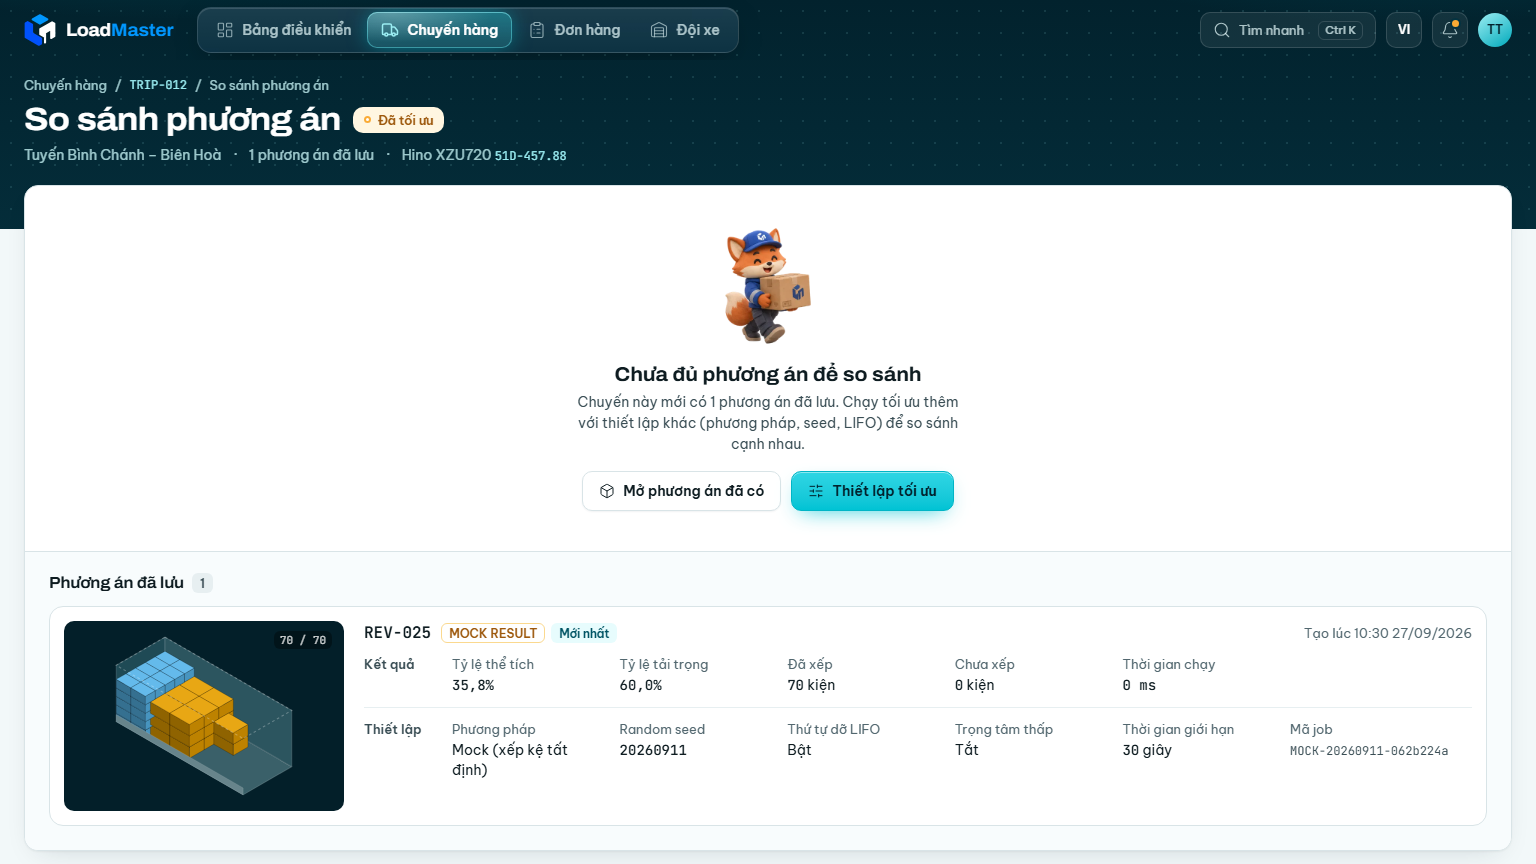
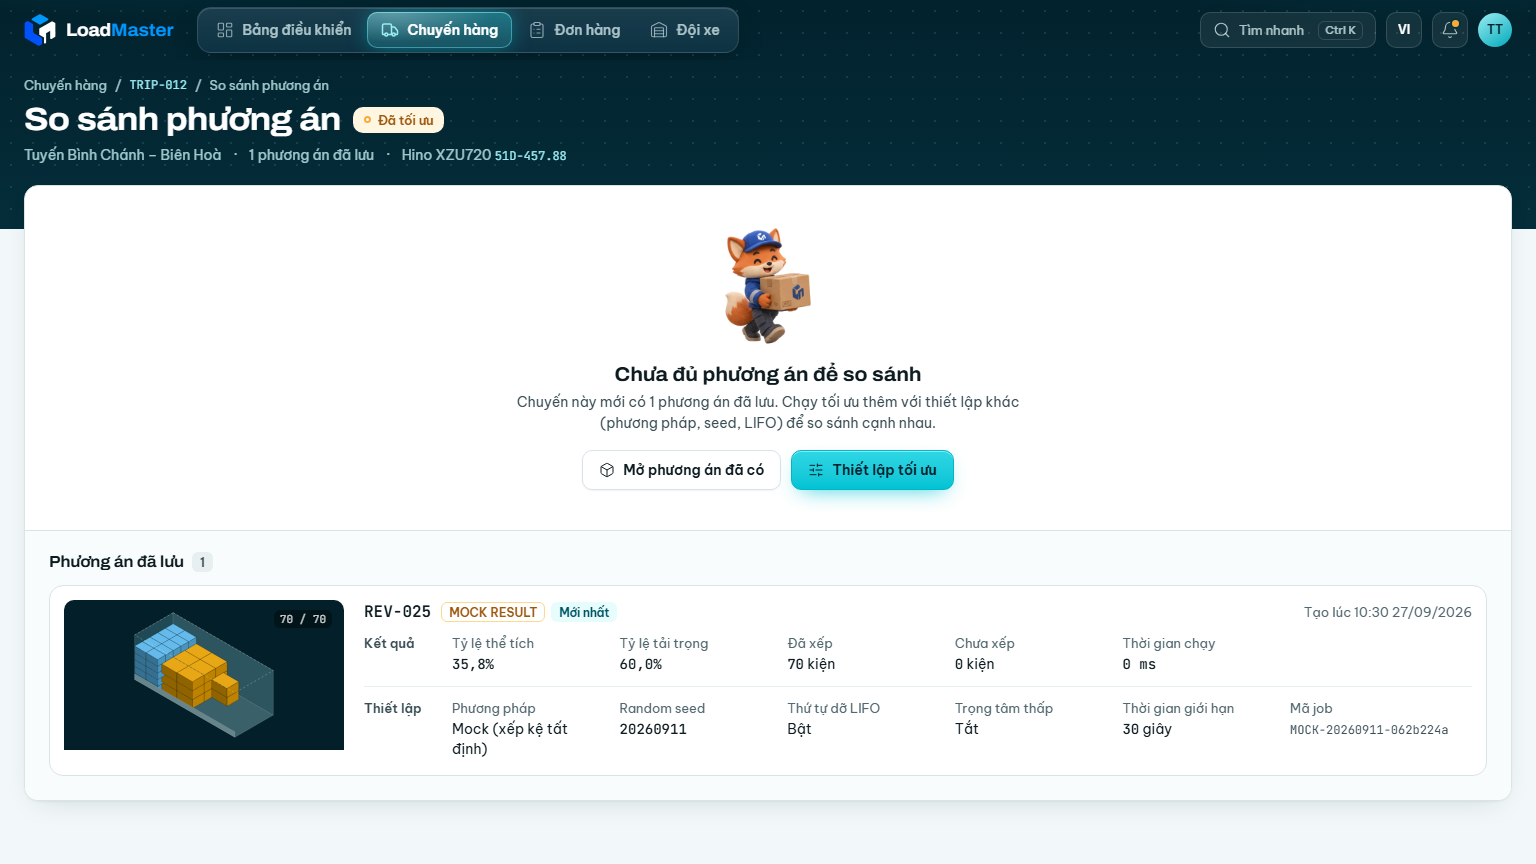
feat(ui): EmptyState có mô tả rộng, ảnh phương án nhận chiều cao; tài liệu đợt 4 (LM-106)

diff --git a/src/features/trips/PlanCompareEmpty.tsx b/src/features/trips/PlanCompareEmpty.tsx
@@ -25,6 +25,7 @@ export function PlanCompareEmpty({ tripId, cards, canRun }: { tripId: string; ca
       <Card className="flex flex-none flex-col overflow-hidden">
         <EmptyState
           mascot="empty"
+          wide
           className="py-10"
           title={t('trips.compare.emptyTitle')}
           description={t('trips.compare.emptyDescription', { count: cards.length })}
@@ -75,7 +76,7 @@ function SavedRevision({ card }: { card: RevisionCardModel }) {
     <article aria-label={card.id} className="flex gap-5 rounded-lg border border-border bg-bg p-3.5 max-lg:flex-col">
       <div className="w-70 flex-none overflow-hidden rounded-md max-lg:w-full">
         <PlanThumbnail revisionId={card.id} request={card.revision.request} placements={card.revision.result.placements}
-          totalCount={card.placedCount + card.unplacedCount} />
+          totalCount={card.placedCount + card.unplacedCount} className="h-[150px]" />
       </div>
       <div className="flex min-w-0 flex-1 flex-col gap-3 py-0.5">
         <div className="flex flex-wrap items-center gap-2.5">

diff --git a/src/components/EmptyState.tsx b/src/components/EmptyState.tsx
@@ -22,6 +22,7 @@ export function EmptyState({
   illustration,
   mascot,
   compact = false,
+  wide = false,
   icon: Icon,
   tone = 'info',
   title,
@@ -32,6 +33,8 @@ export function EmptyState({
   illustration?: ReactNode
   mascot?: LumoPose
   compact?: boolean
+  /** Mô tả rộng tới 520 px thay vì 400 px — câu dài trong card rộng (LM-106, So sánh phương án). */
+  wide?: boolean
   icon?: LucideIcon
   tone?: keyof typeof ART
   title: string
@@ -58,7 +61,7 @@ export function EmptyState({
       <div className="flex flex-col gap-1.5">
         <span className="font-display text-h2 leading-6 font-bold text-ink-strong font-stretch-106%">{title}</span>
         {description ? (
-          <span className="max-w-100 text-body leading-5.25 text-pretty text-ink-2">{description}</span>
+          <span className={cn('text-body leading-5.25 text-pretty text-ink-2', wide ? 'max-w-130' : 'max-w-100')}>{description}</span>
         ) : null}
       </div>
       {action}

diff --git a/src/features/trips/PlanThumbnail.tsx b/src/features/trips/PlanThumbnail.tsx
@@ -10,6 +10,7 @@ import {
   shellColors,
   sortByDepth,
 } from '@/lib/isometric'
+import { cn } from '@/lib/utils'
 import { revisionThumbnail } from './revision-thumbnail'
 
 const SCALE = 21
@@ -24,11 +25,14 @@ export function PlanThumbnail({
   request,
   placements,
   totalCount,
+  className,
 }: {
   revisionId: string
   request: Pick<OptimizationRequest, 'vehicle' | 'packages'>
   placements: readonly PackagePlacement[]
   totalCount: number
+  /** Chiều cao khung (mặc định 190 px). V2.3: 176 px trong ma trận so sánh, 150 px ở thẻ bản lưu (LM-106). */
+  className?: string
 }) {
   const t = useT()
   const format = useFormat()
@@ -48,7 +52,7 @@ export function PlanThumbnail({
   }, [request, placements])
 
   return (
-    <div className="relative h-[190px] flex-none bg-canvas-1">
+    <div className={cn('relative h-[190px] flex-none bg-canvas-1', className)}>
       <svg
         viewBox={frame.viewBox}
         preserveAspectRatio="xMidYMid meet"

diff --git a/src/features/trips/ComparisonMatrix.tsx b/src/features/trips/ComparisonMatrix.tsx
@@ -82,7 +82,7 @@ export function ComparisonMatrix({ cards, best, selectedId, onSelect, footer }: 
                   <td key={card.id} className={cn('py-3.5 pr-4 pl-11', cellTone(card))}>
                     <div className={cn('overflow-hidden rounded-md', card.id === selectedId && 'ring-2 ring-cyan-500')}>
                       <PlanThumbnail revisionId={card.id} request={card.revision.request} placements={card.revision.result.placements}
-                        totalCount={card.placedCount + card.unplacedCount} />
+                        totalCount={card.placedCount + card.unplacedCount} className="h-44" />
                     </div>
                   </td>
                 ))}

diff --git a/docs/issues/LM-106-v23-toi-uu.md b/docs/issues/LM-106-v23-toi-uu.md
@@ -19,6 +19,59 @@ Màn của đợt: `ThietLapToiUu` (1536×1265), `ThietLapToiUuLoi` (1536×1339)
 Bản mẫu vẽ trước LM-104: phần LM-104 thêm vào Thiết lập tối ưu (mục tiêu, thuật toán, bảng "Lần chạy tối ưu", banner quyết định của quản lý)
 **giữ nguyên chức năng**, chỉ đưa về giao diện V2.3.
 
-## Danh sách lệch
+## Danh sách lệch (chụp trước khi sửa)
 
-## Kết quả
+Ảnh trước: `docs/screenshots/v2.3/dot4-toi-uu/before-*.png`.
+
+**Thiết lập tối ưu (`ThietLapToiUu`)**
+- Nút quay lại + mã chuyến + câu mô tả → đường dẫn "Chuyến hàng / mã / Thiết lập tối ưu", chip trạng thái (+ dòng phụ), dòng dữ liệu
+  tên · ngày chạy · xe · tài xế; banner khoá và banner quyết định của quản lý nằm trong dải trời.
+- Cột phải 340 → 416 px; mục viền mảnh → mục đánh số V2.3 (ô số 28 px, tiêu đề Archivo).
+- Ba số đầu vào mono → Archivo 28 px chia vạch; ô điểm giao thêm tuyến "đầu → cuối".
+- Dòng mono thông số xe → ô thông số nền cyan-50 (lòng thùng, tải tối đa, cửa, vật cản) + chip trạng thái xe; hai liên kết sửa có icon.
+- "Thiết lập nâng cao": tam giác mặc định → ô mũi tên, tiêu đề Archivo; mục tiêu / thuật toán (LM-104) thành danh sách chọn có viền.
+- Kiểm tra trước khi tối ưu: danh sách issue trần → dải kết luận + danh sách kiểm theo nhóm Xe / Kiện / Tải trọng.
+- "Sau khi chạy": một câu → ba bước đánh số.
+
+**Thiết lập tối ưu có lỗi (`ThietLapToiUuLoi`)**
+- Nút Tối ưu tắt không nói lý do → câu "Chưa chạy được: N lỗi cần sửa ở …" trên nút, nối `aria-describedby`.
+- Vượt tải: thanh hổ phách → đỏ, "· vượt N kg"; mục lỗi có nhãn Lỗi / Cảnh báo, nút "Đổi xe", "Sửa kiện".
+
+**Đang tối ưu (`DangToiUu`)**
+- Hộp thoại 640 px không icon, "0 / 0" khi service chưa báo → 500 px, ô icon xoay xanh lam, tổng kiện lấy từ chuyến, thanh xanh lam,
+  dòng thời gian đã chạy / giới hạn, khung thiết lập của lần chạy, "Huỷ thì không tạo phương án mới".
+
+**Lỗi và thông báo (`HopThoaiToiUu`)**
+- Thiếu lề dưới, không nút đóng góc → `DialogHeader` có ô icon, nút × góc, rộng 456 px; lỗi đầu vào mỗi dòng có icon và mức.
+
+**So sánh phương án (`SoSanhPhuongAn`)**
+- Nút quay lại + mã → đường dẫn, chip trạng thái chuyến, dòng tuyến · số phương án · xe.
+- Khối viền phẳng → Card; chú giải "Tốt nhất"; radio gốc → radio V2.3; nhãn trạng thái thành tag (lỗi thời hổ phách thay đỏ).
+- Cột đang chọn: chỉ tô đầu cột → tô cả cột + vạch 3 px + ảnh viền cyan; cả ô mono → chỉ phần số mono.
+- Tốt nhất: nền cyan + tích cyan → chữ 600 + tích xanh lá (không trùng nền cột đang chọn).
+- Thanh chân 64 px ngoài vùng cuộn → chân trong Card, dính đáy vùng cuộn.
+
+**So sánh — chưa đủ phương án (`SoSanhPhuongAnTrong`)**
+- Trạng thái rỗng trần trên nền trang → trong Card đè dải trời; thêm mục "Phương án đã lưu (1)" với ảnh, số liệu và thiết lập của bản
+  duy nhất (đọc từ revision).
+
+## Kết quả (27/09/2026)
+
+Hai phần làm song song trong worktree riêng (Thiết lập tối ưu + hộp thoại; So sánh phương án), không chung file; người điều phối gộp,
+thêm hai tuỳ chọn dùng chung và kiểm trên nhánh gộp. Ảnh sau + ghép với ảnh đích: `after-*.png`, `so-sanh/`.
+
+- Dùng chung: `EmptyState wide` (mô tả tới 520 px), `PlanThumbnail className` (176 px trong ma trận, 150 px ở thẻ bản lưu).
+- Kiểm tra: tsc, lint, build sạch; 973/973 unit/DOM (thêm `setup-checklist`, hộp thoại lỗi, thẻ bản lưu); 94/94 E2E.
+
+**Lệch có chủ ý**
+- Không tím: "đang tối ưu" dùng xanh lam; không có chip "Đang tối ưu" (từ LM-104 là tiến trình job, không phải trạng thái).
+- Danh sách "Phương pháp" năm dòng của bản mẫu → hai danh sách Mục tiêu / Thuật toán của LM-104; "Thiết lập nâng cao" vẫn gập mặc định.
+- Nút Tối ưu canh hàng tiêu đề thay vì đáy dải trời: thấp như bản mẫu thì con trỏ sau khi bấm đè toast (offset 152), toast không tự tắt.
+- Ảnh phương án giữ SVG đẳng cự (AGENTS §7); số giữ JetBrains Mono; độ đậm tốt nhất 600 (Be Vietnam Pro chỉ 400/500/600).
+- Seed chỉ có REV-001, REV-002 (bản mẫu có REV-028): hai cột, không ô nào "tốt nhất" vì mọi chỉ số bằng nhau.
+- Chip xe "Sẵn sàng" xanh lá theo `VehicleStatusBadge`; trạng thái rỗng giữ Lumo `empty`.
+
+**Còn lại cho thành phần dùng chung**
+- `PageHero` chưa có tuỳ chọn canh hành động theo hàng tiêu đề (màn này tự đặt lề); dải trời cao hơn bản mẫu khoảng 15 px.
+- `DialogHeader` và `ProgressBar` chưa có tông `azure` (hộp thoại đang chạy tự dựng đầu); nút × góc hộp thoại có hai bản cục bộ.
+- Mục đánh số (`TripFormSection` của trips) nên đưa lên `components/` thay `FormSection` V2.

diff --git a/AGENTS.md b/AGENTS.md
@@ -422,7 +422,8 @@ Mẫu: `design/v2.3/screens/web/ThanhPhan.jpg`, `TrangThaiChung.jpg`, `MenuToanC
 - **Hộp thoại**: bo 18, lớp phủ `--scrim`; `DialogHeader` có ô icon 40 px theo nghĩa; chân nền `--n-25`, nút dồn phải.
 - **Toast**: bo 14, ô icon 30 px tô theo nghĩa; đặt dưới nút hành động của dải trời (`offset` 152).
 - **Banner** (`components/Banner.tsx`): info / warning / danger / neutral, hành động dồn phải. `TripLockBanner` dựng trên nó.
-- **Trạng thái rỗng**: không khung nét đứt; ô minh hoạ 64 px bo 18 theo nghĩa (`icon` + `tone`), tiêu đề Archivo 700.
+- **Trạng thái rỗng**: không khung nét đứt; ô minh hoạ 64 px bo 18 theo nghĩa (`icon` + `tone`), tiêu đề Archivo 700. Màn không có dữ liệu
+  dùng Lumo (`mascot`, LM-105) thay ô icon; `compact` 96 px trong card; `wide` cho mô tả tới 520 px trong card rộng (LM-106).
 - **Menu, Select, tooltip**: menu trắng đặc bo 14 padding 6, mục 36 px, `tone="danger"`; tooltip nền `--cyan-950`.
 
 ### Thanh tiêu đề màn *(bổ sung)*

diff --git a/docs/progress.md b/docs/progress.md
@@ -34,6 +34,13 @@ Trạng thái: ⬜ Chưa bắt đầu · 🟦 Đang làm · 🟨 Chờ / bị ch
 
 ## 2. Nhật ký
 
+### 27/09/2026 — V2.3 đợt 4: Tối ưu (LM-106); gộp PR #4, #5, #6
+
+- Gộp vào `developer`: PR #4 (đợt 3), #5 (Review 1, sau khi sửa câu quét sai kiện chờ nhãn tải — CI chậm lộ ra), #6 (thương hiệu).
+- Đợt 4, hai worktree song song: Thiết lập tối ưu (+ có lỗi, đang tối ưu, hộp thoại lỗi) và So sánh phương án (+ chưa đủ phương án).
+  Giữ nguyên phần LM-104 (mục tiêu, thuật toán, lịch sử lần chạy, banner quyết định). Dùng chung: `EmptyState wide`, `PlanThumbnail`
+  nhận chiều cao. 973/973 unit/DOM; 94/94 E2E.
+
 ### 27/09/2026 — Thương hiệu đợt 3: in ấn và màn kho (LM-105)
 
 Logo một màu trên nhãn QR (bản xem và bản in) và đầu báo cáo chuyến bản in; biểu tượng ở màn chính của kho. Không thêm logo vào thanh
